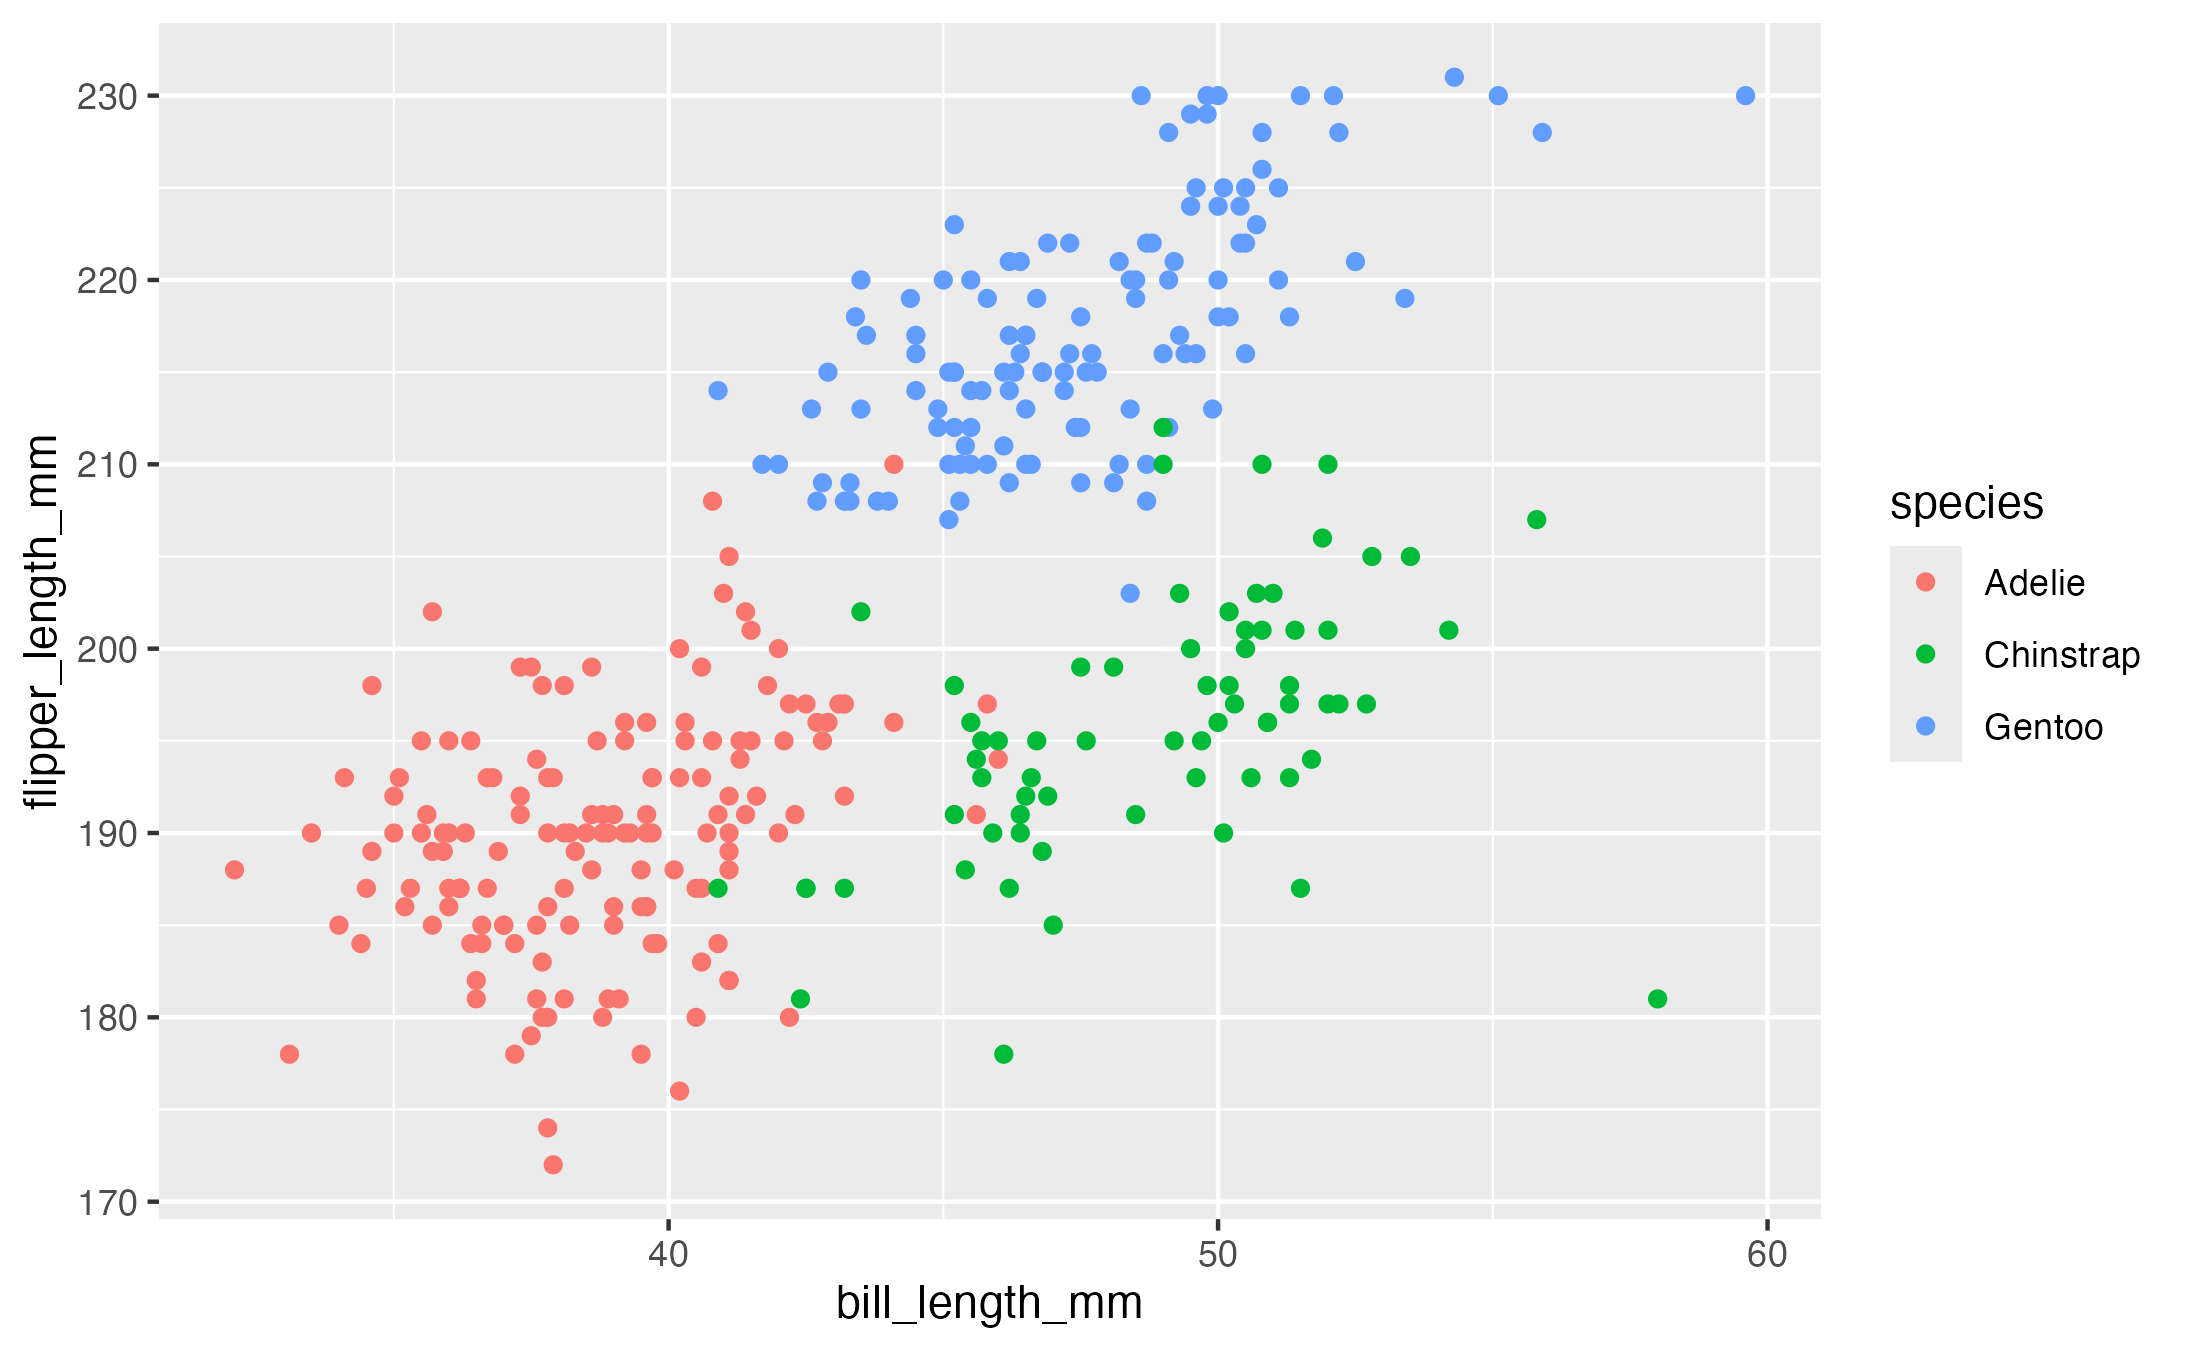
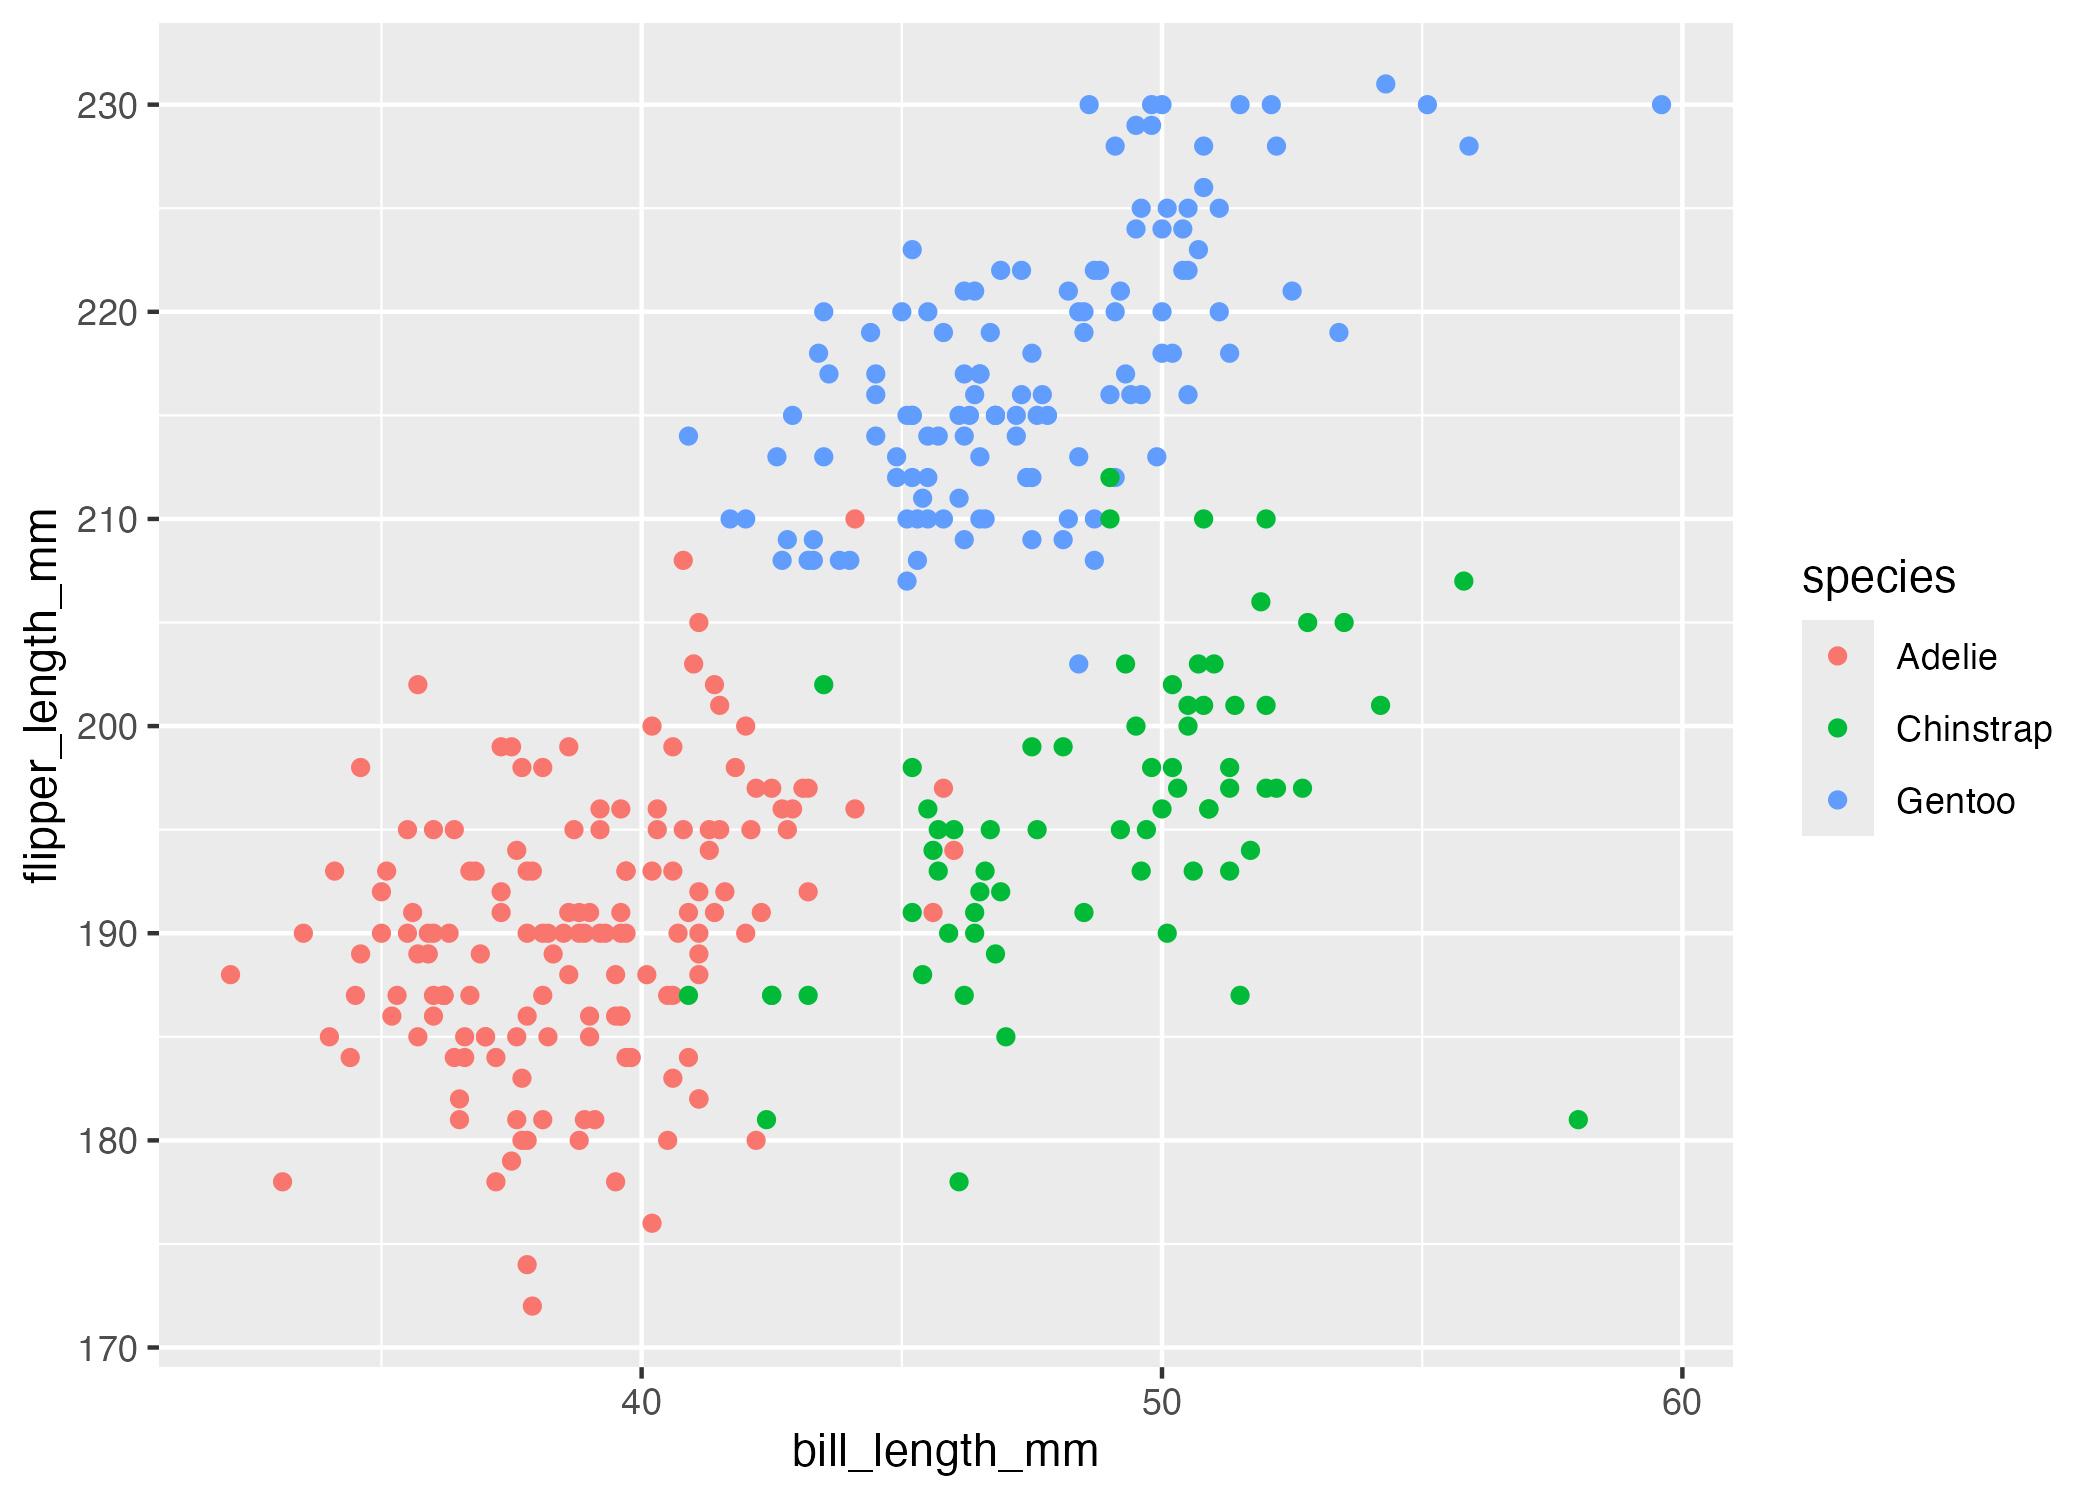
Final Assignment: Includes Problems 1 and 2, as well as the final plot and .md file.

diff --git a/p8105_hw1_ecf2166.md b/p8105_hw1_ecf2166.md
@@ -1,0 +1,143 @@
+Homework 1
+================
+2026-09-20
+
+# Problem 1
+
+``` r
+library(tidyverse)
+data("penguins", package = "palmerpenguins")
+```
+
+The penguins dataset contains information on 344 penguins. There are 8
+columns in this dataset, containing information on:
+
+- species: Adelie, Chinstrap, Gentoo
+- island: Biscoe, Dream, Torgersen
+- bill length: range = 32.1 - 59.6 mm
+- bill depth: range = 13.1 - 21.5 mm
+- flipper length: range = 172 - 231 mm
+- body mass: range = 2700 - 6300 g
+- sex: female, male
+- year: range = 2007 - 2009
+
+The mean flipper length of the penguins in this dataset is 200.9 mm.
+
+## Scatterplot of flipper length against bill length
+
+``` r
+ggplot(penguins, aes(x = bill_length_mm, y = flipper_length_mm, color = species)) +
+  geom_point()
+```
+
+    ## Warning: Removed 2 rows containing missing values or values outside the scale range
+    ## (`geom_point()`).
+
+![](p8105_hw1_ecf2166_files/figure-gfm/flipper_bill_plot-1.png)<!-- -->
+
+``` r
+ggsave("flipper_bill_plot.png")
+```
+
+    ## Warning: Removed 2 rows containing missing values or values outside the scale range
+    ## (`geom_point()`).
+
+As seen in the scatterplot, the Adelie penguins tend to have lower
+flipper lengths and bill lengths. The Chinstrap penguins tend to have
+similar flipper lengths to Adelie (on the lower side) but longer bill
+lengths. Gentoo penguins tend to have the highest flipper lengths and
+bill lengths similar to the Chinstrap penguins.
+
+# Problem 2
+
+``` r
+set.seed(1)
+
+prob2_df =
+  tibble(
+    norm_sample = rnorm(10),
+    vec_logic = norm_sample > 0,
+    vec_char = c("a", "b", "c", "d", "e", "f", "g", "h", "i", "j"),
+    vec_factor = factor(c("low", "low", "low", "med", "med", "med", "med", "high", "high", "high"))
+  )
+```
+
+## Means of each of the vectors
+
+``` r
+mean(pull(prob2_df, norm_sample))
+```
+
+    ## [1] 0.1322028
+
+You can take the mean of the normal sample vector.
+
+``` r
+mean(pull(prob2_df, vec_logic))
+```
+
+    ## [1] 0.6
+
+You can take the mean of the logic vector (assigns values of 0 or 1
+depending on if the observation satisfies the criteria).
+
+``` r
+mean(pull(prob2_df, vec_char))
+```
+
+    ## Warning in mean.default(pull(prob2_df, vec_char)): argument is not numeric or
+    ## logical: returning NA
+
+    ## [1] NA
+
+You cannot take the mean of a character vector because the values are
+not numeric.
+
+``` r
+mean(pull(prob2_df, vec_factor))
+```
+
+    ## Warning in mean.default(pull(prob2_df, vec_factor)): argument is not numeric or
+    ## logical: returning NA
+
+    ## [1] NA
+
+Similarly, you cannot take the mean of a factor vector because the
+`mean()` function only accepts numeric or logical inputs.
+
+## Using as.numeric() to convert vectors to numeric
+
+``` r
+as.numeric(pull(prob2_df, vec_logic))
+as.numeric(pull(prob2_df, vec_char))
+as.numeric(pull(prob2_df, vec_factor))
+```
+
+Logical vector: `as.numeric()` returns 0s and 1s, converting TRUE to 1
+and FALSE to 0. This is the same coercion the `mean()` function
+performs, which is why the mean of the logical vector works. It’s just
+the proportion of sample values above 0, or 0.6 here. Because the
+standard Normal is centered at 0, we’d expect that proportion to be
+around 0.5, though randomization and our low sample size may lead the
+calculated mean to land off the expected value of 0.5.
+
+Character vector: `as.numeric()` returns a vector of NAs, since there’s
+no number that “a”, or any letter, corresponds to. Character variables
+are also not ordered or finite in options, as with factor variables.
+This is why `mean()` returns NA as well. There are no numeric values to
+average.
+
+Factor vector: `as.numeric()` returns the integer codes R stores for
+each level. A factor holds a finite set of levels plus a code for each
+observation, and by default those codes follow the alphabetical order of
+the levels: high, low, med, so high = 1, low = 2, med = 3. Those codes
+reflect alphabetical position rather than anything we defined, so while
+`mean(as.numeric(pull(prob2_df, vec_factor)))` does return a value
+(2.1), that value has no meaningful interpretation. Specifying
+`levels = c("low", "med", "high")` inside `factor()` would at least make
+the codes follow the real order, though a mean would still assume the
+gap from low to med equals the gap from med to high. An example for this
+could be age where child = 0-12 years, adolescent = 12-18 years, and
+adult = 18+. Coding them 1, 2, and 3 implies the step from child to
+adolescent matches the step from adolescent to adult, even though the
+underlying bins cover very different ranges.
